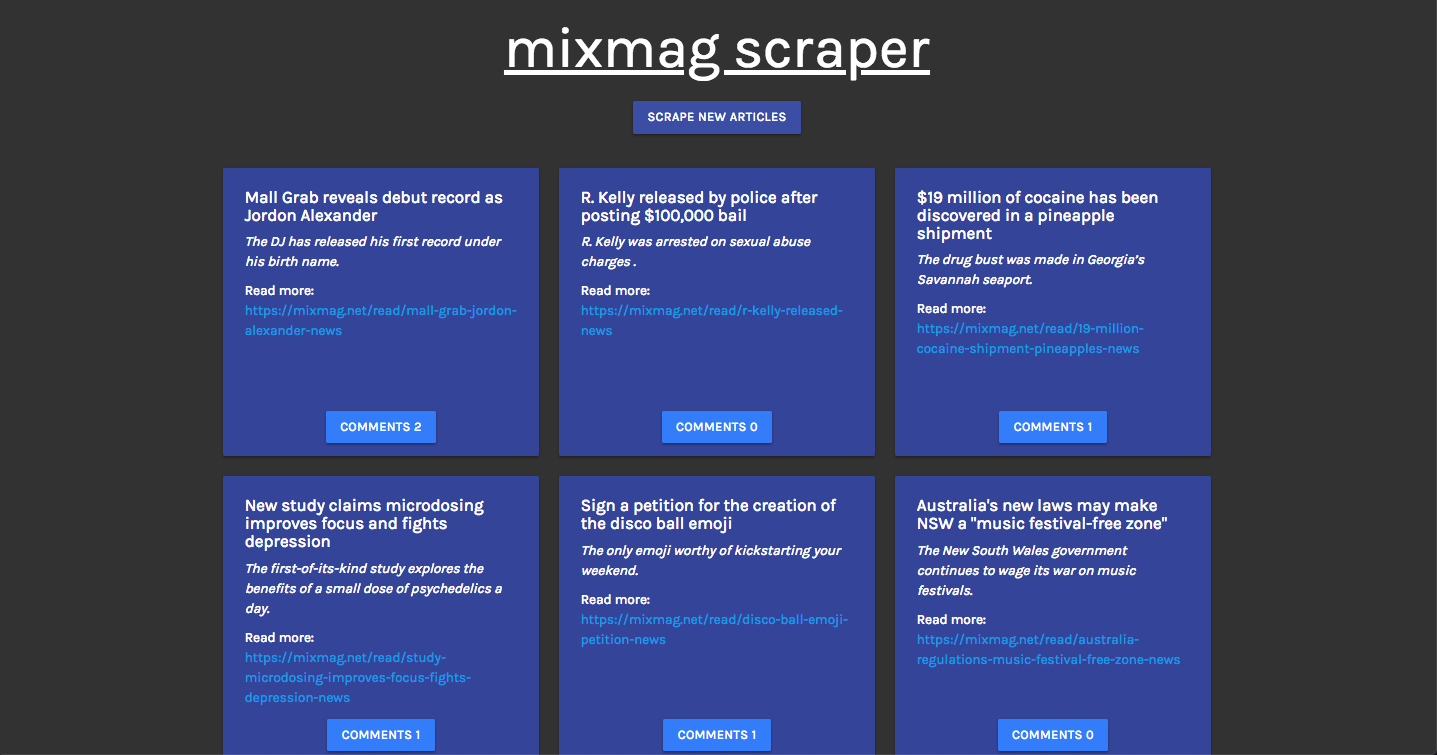
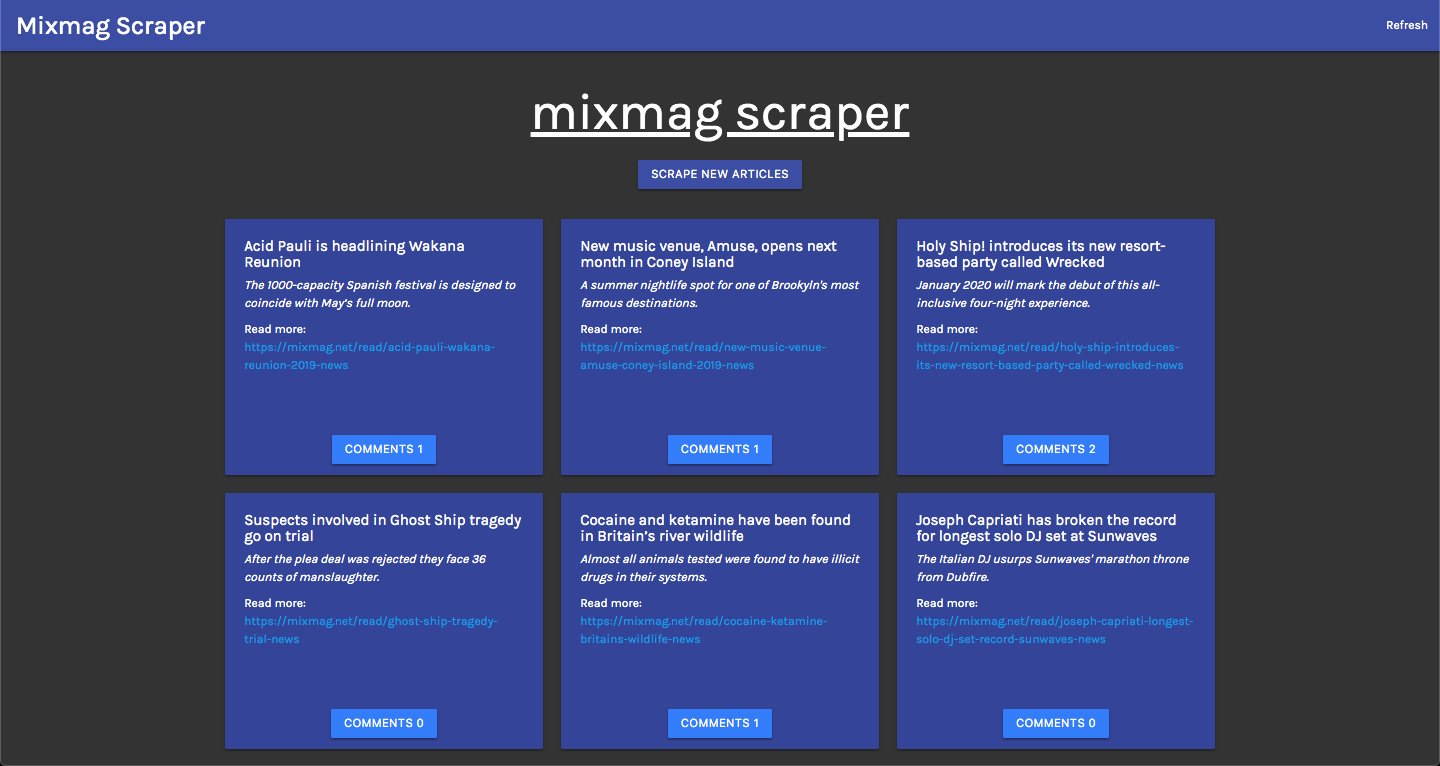
added responsive navbar

Changed region(s): [[0.0, 0.0, 1.0, 0.4874], [0.1531, 0.5179, 0.8573, 1.0]]

diff --git a/public/assets/css/style.css b/public/assets/css/style.css
@@ -1,9 +1,3 @@
-* {
-  margin: 0;
-  padding: 0;
-  box-sizing: border-box;
-}
-
 body {
   background-color: #323232;
   font-family: "Karla", sans-serif;
@@ -11,6 +5,11 @@ body {
 
 h1 {
   text-decoration: underline;
+}
+
+nav {
+  background-color: #3949ab !important;
+  padding-left: 20px;
 }
 
 .card {
@@ -40,6 +39,14 @@ h1 {
 }
 
 .scrape-button {
+  color: white !important;
+}
+
+.sidenav {
+  background-color: #3949ab;
+}
+
+.mobile-link {
   color: white !important;
 }
 
@@ -96,6 +103,9 @@ input:focus {
     height: 500px;
   }
 
+  .brand-logo {
+    font-size: 1.25rem !important;
+  }
   h5 {
     font-size: 1rem;
   }

diff --git a/public/assets/js/app.js b/public/assets/js/app.js
@@ -1,6 +1,8 @@
 $(document).ready(function() {
   // opens materialize modal
   $(".modal").modal();
+  // sidenav
+  $(".sidenav").sidenav();
   // sends the user's comment to the server to put in the db.
   $(".save-comment").click(function(event) {
     let thisId = $(this).attr("data-id");

diff --git a/README.md b/README.md
@@ -4,6 +4,10 @@ _MIXMAG News Scraper_ is a full-stack app which scrapes the latest news from mix
 
 ![Screenshot](public/assets/img/screenshot.png)
 
+## Motivation
+
+I wanted to make a quick and clean way to read the latest news headlines from mixmag.net without having to navigate their site and be subject to pictures and advertisements.
+
 ## Getting Started
 
 The following instructions will get you a copy of the project up and running on your local machine for development and testing purposes.
